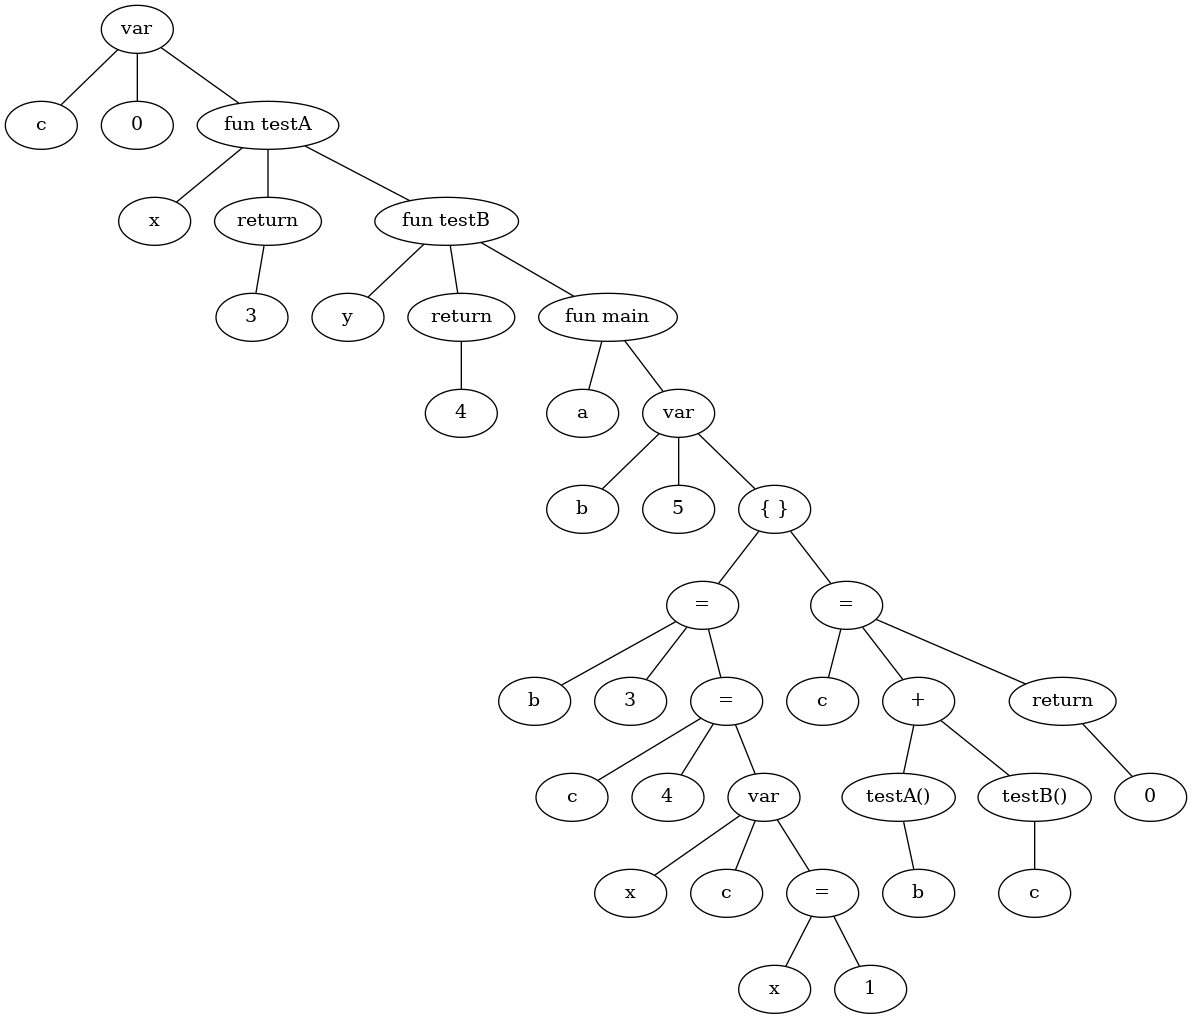
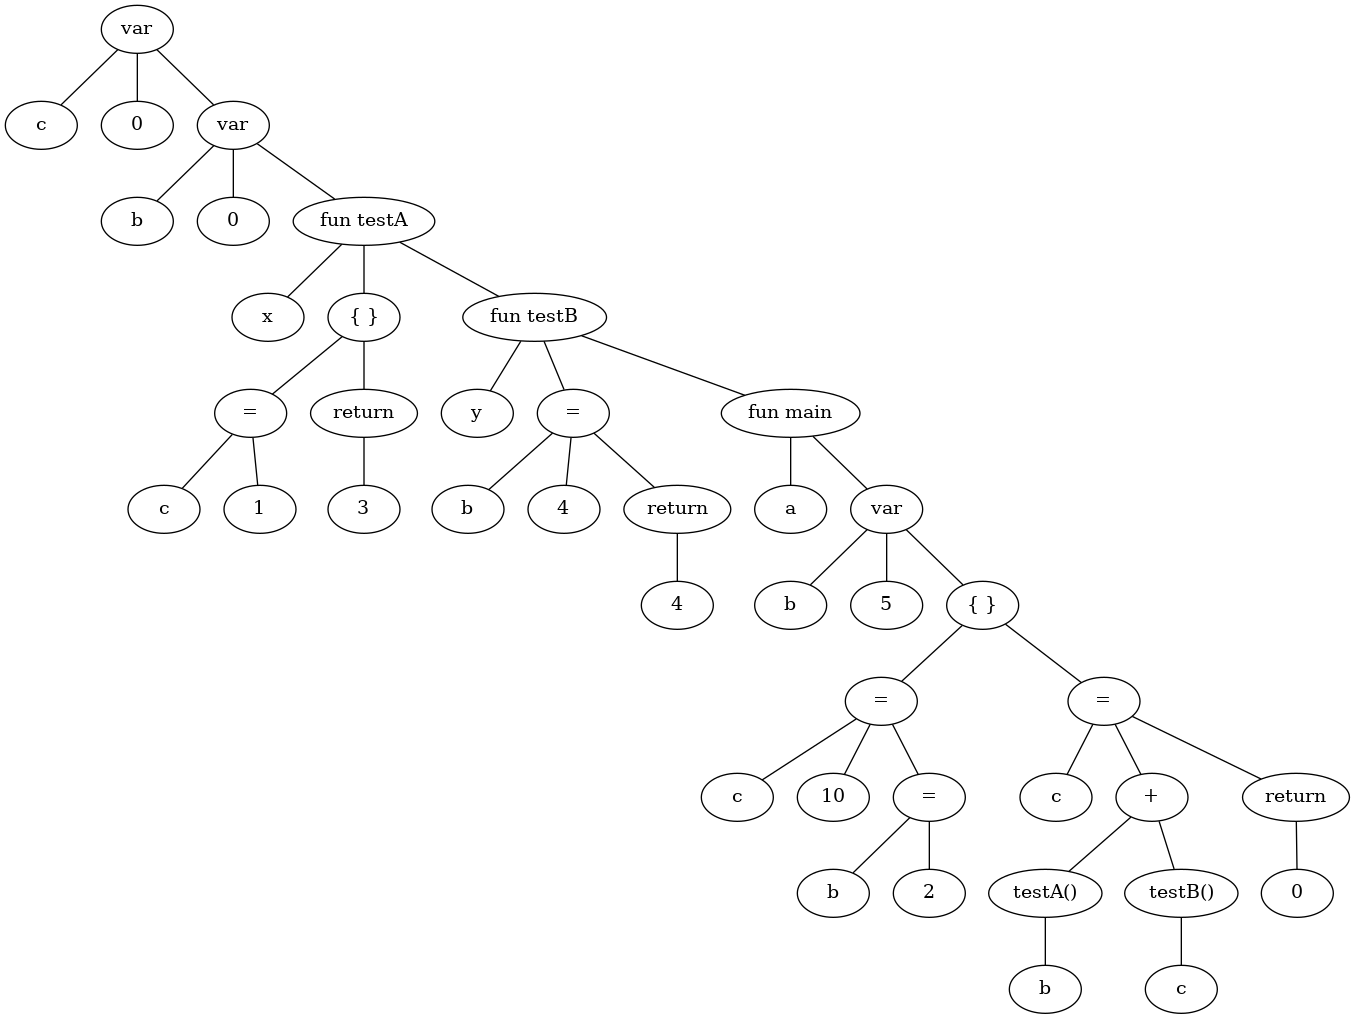
execução estática

diff --git a/static.py b/static.py
@@ -4,20 +4,182 @@ from memory import RA, Variable
 from context import Context
 
 class Static(Context):
-    def __init__():
-        pass
+    def __init__(self, ast):
+        self.root = ast
 
+        self.current = self.first(self.root, "main")
+        if (self.current is None): raise Exception("main não encontrada")
+
+        self.memory = []
+
+        globalRA = RA()
+        globalRA.staticLevel = 0
+        self.memory.append(globalRA)
+        self.initMemory(self.root)
+        
+        mainRA = RA()
+        mainRA.staticLevel = 1
+        self.memory.append(mainRA)
+
+        self.findStaticLevel(self.root, 0)
+        self.currentLevel = 1
+        self.raLoadParams = None
+
+        # mantem o ponto de retorno
+        self.binding = []
+        # mantem o ponto onte o retorno deve ser salvo
+        self.bindingR = []
+        # mantem o level estático anterior a chamada
+        self.bindingLevel = []
+
+    def findStaticLevel(self, node, level):
+        if node is None:
+            return
+        
+        elif isinstance(node, Fun):
+            node.staticLevel = level + 1
+            self.findStaticLevel(node.snd, level + 1)
+
+        elif isinstance(node, Block):
+            node.staticLevel = level + 1
+            self.findStaticLevel(node.fst, level + 1)
+
+        if isinstance(node, Return) == False:
+            self.findStaticLevel(node.next, level)
+
+    # avalia um instrução
     def eval(self, node):
-        pass
+        
+        # se houver chamada de funcao, pega o nodo da chamada
+        # adiciona o ponto de retorno (self.current) e o ponto onde o retorno da chamada deve ser salvado (funcall)
+        # adiciona novo registro de ativação
+        # carrega os parametros no novo RA
+        funCall = self.hasFunCall(node)
+        if funCall is not None:
+            fun = self.getFunNode(self.root, funCall.name)
 
+            self.binding.append(self.current)
+            self.bindingR.append(funCall)
+            self.bindingLevel.append(self.currentLevel)
+
+            self.current = self.first(self.root, funCall.name)
+            self.currentLevel = fun.staticLevel
+
+            ra = RA()
+            ra.staticLevel = fun.staticLevel
+            self.raLoadParams = ra
+            self.loadParams(funCall.fst, fun.fst)
+            self.memory.append(ra)
+
+            return False
+        
+        elif isinstance(node, Var):
+            name = node.fst.name
+            value = self.evalOperation(node.snd)
+            self.memory[-1].addVariable(Variable(name, value))
+
+            # é final de um bloco, unico caso em que ocorre
+            if node.next is None:
+                self.current = self.binding[-1]
+                self.currentLevel = self.bindingLevel[-1]
+
+                self.binding.pop()
+                self.bindingLevel.pop()
+                self.memory.pop()
+                
+                return False
+        
+        elif isinstance(node, Assign):
+            name = node.fst.name
+            value = self.evalOperation(node.snd)
+            self.updateVariable(name, value, self.currentLevel)
+
+            # é final de um bloco, unico caso em que ocorre
+            if node.next is None:
+                self.current = self.binding[-1]
+                self.currentLevel = self.bindingLevel[-1]
+
+                self.binding.pop()
+                self.bindingLevel.pop()
+                self.memory.pop()
+
+                return False
+
+        elif isinstance(node, Block):
+            self.binding.append(node.next)
+            self.bindingLevel.append(self.currentLevel)
+
+            ra = RA()
+            ra.staticLevel = self.currentLevel + 1
+            self.memory.append(ra)
+
+            self.current = node.fst
+            self.currentLevel = self.currentLevel + 1
+
+            return False
+        
+        # se for retorno, retorno para ponto anterior a chamada
+        # salva retorno da função
+        # pop nas estruturas necessarias
+        elif isinstance(node, Return):
+            self.current = self.binding[-1]
+            self.currentLevel = self.bindingLevel[-1]
+            self.bindingR[-1].rValue = self.evalOperation(node.fst)
+
+            self.binding.pop()
+            self.bindingR.pop()
+            self.bindingLevel.pop()
+            self.memory.pop()
+
+            return False
+        
+        return True
+    
+    # carrega parametros da chamada de funcao
     def loadParams(self, call, fun):
-        pass
+        if call is None and fun is None:
+            return
+        if call is None or fun is None:
+            raise Exception('argumentos não batem com definição')
+        self.raLoadParams.addVariable(Variable(fun.name, self.getVariable(call.name, self.currentLevel).value))
+        self.loadParams(call.next, fun.next)
 
+    # avalia uma operacao para um valor NUMERICO, apos as chamadas terem sido avaliadas
     def evalOperation(self, node):
-        pass
+        if isinstance(node, Sum):
+            return self.evalOperation(node.fst) + self.evalOperation(node.snd)
+        
+        elif isinstance(node, Mult):
+            return self.evalOperation(node.fst) * self.evalOperation(node.snd)
+        
+        elif isinstance(node, Div):
+            return self.evalOperation(node.fst) / self.evalOperation(node.snd)
+        
+        elif isinstance(node, Sub):
+            return self.evalOperation(node.fst) - self.evalOperation(node.snd)
+        
+        elif isinstance(node, Number):
+            return int(node.value)
+        
+        elif isinstance(node, Identifier):
+            return self.getVariable(node.name, self.currentLevel).value
+        
+        elif isinstance(node, FunCall):
+            return node.rValue
 
-    def updateVariable(self, name, value):
-        pass
+    def updateVariable(self, name, value, level):
+        for ra in reversed(self.memory):
+            if ra.staticLevel == level:
+                level -= 1
+                if ra.updateVariable(name, value):
+                    return
+        raise Exception('variavel não encontrada: ' + name)
 
-    def getVariable(self, name):
-        pass
+    def getVariable(self, name, level):
+        for ra in reversed(self.memory):
+            if ra.staticLevel == level:
+                level -= 1
+                var = ra.getVariable(name)
+                if var is not None: 
+                    return var
+        raise Exception('variavel não encontrada: ' + name)

diff --git a/main.py b/main.py
@@ -1,30 +1,36 @@
 from lexer import Lexer
 from syntax import Parser
 from dynamic import Dynamic
+from static import Static
 import os
+import argparse
 
 test = """
 var c = 0;
+var b = 0;
 
 fun testA(x) {
+  {
+    c = 1;
+  };
   return 3;
 };
 
 fun testB(y) {
+  b = 4;
   return 4;
 };
 
 fun main(a) {
   var b = 5;
   {
-    b = 3;
-    c = 4; 
-    var x = c;
-    x = 1;
+    c = 10;
+    b = 2;
   };
   c = testA(b) + testB(c);
   return 0;
 };
+
 """
 
 lexer = Lexer().get_lexer()
@@ -38,7 +44,13 @@ ast = parser.parse(tokens)
 pg.build_graph(ast)
 pg.graph.write_png("ast.png")
 
-context = Dynamic(ast)
+parser = argparse.ArgumentParser()
+parser.add_argument("-m", "--mode", help = "0 - estático / 1 - dinâmico")
+args = parser.parse_args()
+
+context = Static(ast)
+if args.mode == "1":
+  context = Dynamic(ast)
 
 while True:
   key = input()

diff --git a/nodes.py b/nodes.py
@@ -3,6 +3,7 @@ class Block():
     def __init__(self, fst):
         self.fst = fst
         self.next = None
+        self.staticLevel = None
 
     def addNext(self, next):
         self.next = next
@@ -11,7 +12,7 @@ class Block():
         return "{ }"
     
     def toLineString(self):
-        return "\n{\n" + self.fst.toLineString() + "\n};"
+        return "{ };"
 
 # FUNCAO
 class Fun():
@@ -20,6 +21,7 @@ class Fun():
         self.fst = fst
         self.snd = snd
         self.next = None
+        self.staticLevel = None
 
     def addNext(self, next):
         self.next = next

diff --git a/memory.py b/memory.py
@@ -3,6 +3,7 @@
 class RA:
     def __init__(self):
         self.list = []
+        self.staticLevel = 0
 
     def addVariable(self, var):
         if len(list(filter(lambda x: x.name == var.name, self.list))) != 0: 
